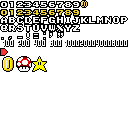
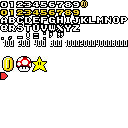
Point streak, bonus points on flagpole, bonus by remtime * 10

Changed region(s): [[0.0, 0.5625, 0.0625, 0.625], [0.0, 0.375, 0.0625, 0.4375]]

diff --git a/02-Bubble/Scene.cpp b/02-Bubble/Scene.cpp
@@ -32,6 +32,7 @@ Scene::~Scene()
 bool Scene::isOver(){ return gameOver; }
 bool Scene::hasWon(){ return won; }
 
+
 void Scene::init(int lvl)
 {
 	initShaders();
@@ -48,6 +49,7 @@ void Scene::init(int lvl)
 	points = 0;
 	pointStreak = 0;
 	remTime = 400.f;
+	resetStreakCounter = 5000;
 	gameOver = false;
 	won = false;
 
@@ -88,6 +90,7 @@ void Scene::init(int lvl)
 	mushroomMus.setVolume(15);
 
 	playerDeathStarted = false;
+	playerFlagpoleStarted = false;
 	floatsToRender.clear();
 }
 
@@ -99,11 +102,74 @@ enum FloatingBlocks {
 	ONE_H, TWO_H, FOUR_H, EIGHT_H, ONE_TH, TWO_TH, FOUR_TH, EIGHT_TH, COIN_BUMP, MUSH_BUMP, STAR_BUMP
 };
 
+int getPtsByStreak(int streak){
+	switch (streak){
+		case 0:
+		return 400;
+		case 1:
+		return 800;
+		case 2:
+		return 1000;
+		case 3:
+		return 2000;
+		case 4:
+		return 4000;
+		default:
+		return 8000;
+	}
+}
+
+int getPtsFromFlagpole(int height){
+	float perc = 147.5 - 0.709*height;
+
+	if (perc < 12.5) return 100;
+	else if (perc < 25) return 200;
+	else if (perc < 37.5) return 400;
+	else if (perc < 50) return 800;
+	else if (perc < 62.5) return 1000;
+	else if (perc < 75) return 2000;
+	else if (perc < 87.5) return 4000;
+	else return 8000;
+
+}
+
+
+int getFloatByPoints(int pts){
+	switch (pts){
+		case 100:
+		return ONE_H;
+		case 200:
+		return TWO_H;
+		case 400:
+		return FOUR_H;
+		case 800:
+		return EIGHT_H;
+		case 1000:
+		return ONE_TH;
+		case 2000:
+		return TWO_TH;
+		case 4000:
+		return FOUR_TH;
+		default:
+		return EIGHT_TH;
+	}
+}
 
 void Scene::update(int deltaTime)
 {
-	remTime -= deltaTime / 1000.f;
-	if (remTime < 0) gameOver = true;
+	if (remTime < 0 && !playerFlagpoleStarted) gameOver = true;
+
+	if (!playerFlagpoleStarted) remTime -= deltaTime / 1000.f;
+	else if (remTime > 0){
+		remTime -= deltaTime / 10.f;
+		points += (deltaTime);
+	}
+
+	resetStreakCounter -= deltaTime;
+	if (resetStreakCounter < 0){
+		pointStreak = 0;
+		resetStreakCounter = 5000;
+	}
 
 	map->update(deltaTime);
 
@@ -164,9 +230,8 @@ void Scene::update(int deltaTime)
 		// Game Over
 		gameOver = true;
 		return;
-	} else if (player->hasDeathAnimStarted()){
-		defaultMus.stop();
-	}
+	} 
+	else if (player->hasDeathAnimStarted()) defaultMus.stop();
 	
 	glm::ivec2 playerPosAnt = player->getPosition();
 
@@ -174,6 +239,16 @@ void Scene::update(int deltaTime)
 	player->update(deltaTime);
 	glm::ivec2 playerPos = player->getPosition();
 	glm::ivec2 playerSize = player->getSize();
+
+	// Check if the player has touched flagpole
+	if (player->hasWinningAnimStarted() && !playerFlagpoleStarted){
+		playerFlagpoleStarted = true;
+
+		int inc = getPtsFromFlagpole(playerPos.y);
+		points += inc;
+		floatsToRender.push_back(glm::vec4(getFloatByPoints(inc), 400, playerPos.x - 5, playerPos.y - 16));
+		//std::cout << int(perc) << std::end;
+	}
 
 	// Update enemies
 	for (int e = 0; e < enemies.size(); ++e){
@@ -185,22 +260,24 @@ void Scene::update(int deltaTime)
 
 		// First check for collision between enemies
 		for (int ee = 0; ee < enemies.size(); ++ee){
-			if (ee == e || enemies[ee]->isDead()) continue;
+			if (ee == e || enemies[ee]->hasDeathAnimStarted() || enemies[e]->hasDeathAnimStarted()) continue;
 
 			if (enemies[ee]->collisionKill(enemyPos, enemySize)){
 				// Collision
+				int inc = getPtsByStreak(pointStreak);
+
 				if (enemies[ee]->killsEnemies()){
 					enemies[e]->die();
-					points += glm::min((1 << pointStreak), 8)*1000;
+					points += inc;
 					++pointStreak;
-					floatsToRender.push_back(glm::vec4(glm::min(EIGHT_TH + 0, ONE_TH + pointStreak), 400, enemyPos.x, enemyPos.y - 16));
+					floatsToRender.push_back(glm::vec4(getFloatByPoints(inc), 400, enemyPos.x, enemyPos.y - 16));
 				}
 				else if (enemies[e]->killsEnemies()){
 					enemies[ee]->die();
-					points += glm::min((1 << pointStreak), 8)*1000;
+					points += getPtsByStreak(pointStreak);
 					++pointStreak;
 					glm::vec2 otherEnemyPos = enemies[ee]->getPosition();
-					floatsToRender.push_back(glm::vec4(glm::min(EIGHT_TH + 0, ONE_TH + pointStreak), 400, otherEnemyPos.x, otherEnemyPos.y - 16));
+					floatsToRender.push_back(glm::vec4(getFloatByPoints(inc), 400, otherEnemyPos.x, otherEnemyPos.y - 16));
 				} 
 				else {
 					enemies[ee]->invertXVelocity();
@@ -212,25 +289,27 @@ void Scene::update(int deltaTime)
 
 		if (enemies[e]->collisionStomped(playerPos, playerSize) && !playerDeathStarted){
 			int enemyType = enemies[e]->getType();
-			++pointStreak;
 
-			int spriteThatWillRender = glm::min(EIGHT_TH + 0, ONE_TH + pointStreak);
+			int inc = getPtsByStreak(pointStreak);
+			int spriteThatWillRender = getFloatByPoints(inc);
 
 			switch (enemyType){
 				case 0: // GOOMBA
 				floatsToRender.push_back(glm::vec4(spriteThatWillRender, 400, playerPos.x, playerPos.y));
-				points += glm::min((1 << pointStreak), 8) * 1000;
+				points += getPtsByStreak(pointStreak);
 				goombaMus.play();
 				goombaMus.setPlayingOffset(sf::Time::Zero);
 				break;
 				case 1: // KOOPA TROOPA
 				floatsToRender.push_back(glm::vec4(spriteThatWillRender, 400, playerPos.x, playerPos.y));
-				points += glm::min((1 << pointStreak), 8) * 1000;
+				points += getPtsByStreak(pointStreak);
 				koopaMus.play();
 				koopaMus.setPlayingOffset(sf::Time::Zero);
 				break;
 
 			}
+
+			++pointStreak;
 
 			enemies[e]->stomp(playerPos);
 			player->jump(30);

diff --git a/02-Bubble/Screen.cpp b/02-Bubble/Screen.cpp
@@ -261,7 +261,7 @@ void Screen::initGlyphTextures(){
 	textSprite->setAnimationSpeed(EXCLAMATION, 0);
 	textSprite->addKeyframe(EXCLAMATION, glm::vec2(0.1875f, 0.25f));
 	textSprite->setAnimationSpeed(EQUALS, 0);
-	textSprite->addKeyframe(EQUALS, glm::vec2(0.0f, 0.375f));
+	textSprite->addKeyframe(EQUALS, glm::vec2(0.0f, 0.5625f));
 	textSprite->setAnimationSpeed(TWODOTS, 0);
 	textSprite->addKeyframe(TWODOTS, glm::vec2(0.3125f, 0.25f));
 	textSprite->setAnimationSpeed(APOSTROPHE, 0);

diff --git a/02-Bubble/Scene.h b/02-Bubble/Scene.h
@@ -61,9 +61,9 @@ private:
 	glm::mat4 projection;
 
 	sf::Music defaultMus, goombaMus, koopaMus, mushroomMus, winMus, zeldaMus;
-	bool playerDeathStarted;
+	bool playerDeathStarted, playerFlagpoleStarted;
 
-	int points, level, pointStreak;
+	int points, level, pointStreak, resetStreakCounter;
 	float remTime;
 
 	bool gameOver, won;

diff --git a/02-Bubble/Item.cpp b/02-Bubble/Item.cpp
@@ -228,6 +228,7 @@ void Item::stomp(const glm::ivec2& pos){
 }
 
 bool Item::isDead(){ return itemKO; }
+bool Item::hasDeathAnimStarted(){ return deadAnimStart || itemKO; }
 bool Item::killsEnemies() { return typeItem == KOOPA && koopaShell && vel.x != 0; }
 
 glm::vec2 Item::getPosition(){ return posItem; }

diff --git a/02-Bubble/Item.h b/02-Bubble/Item.h
@@ -24,6 +24,7 @@ public:
 
 	void stomp(const glm::ivec2& posPlayer);
 	bool isDead();
+	bool hasDeathAnimStarted();
 	glm::vec2 getPosition();
 	glm::vec2 getSize();
 	int getType();
